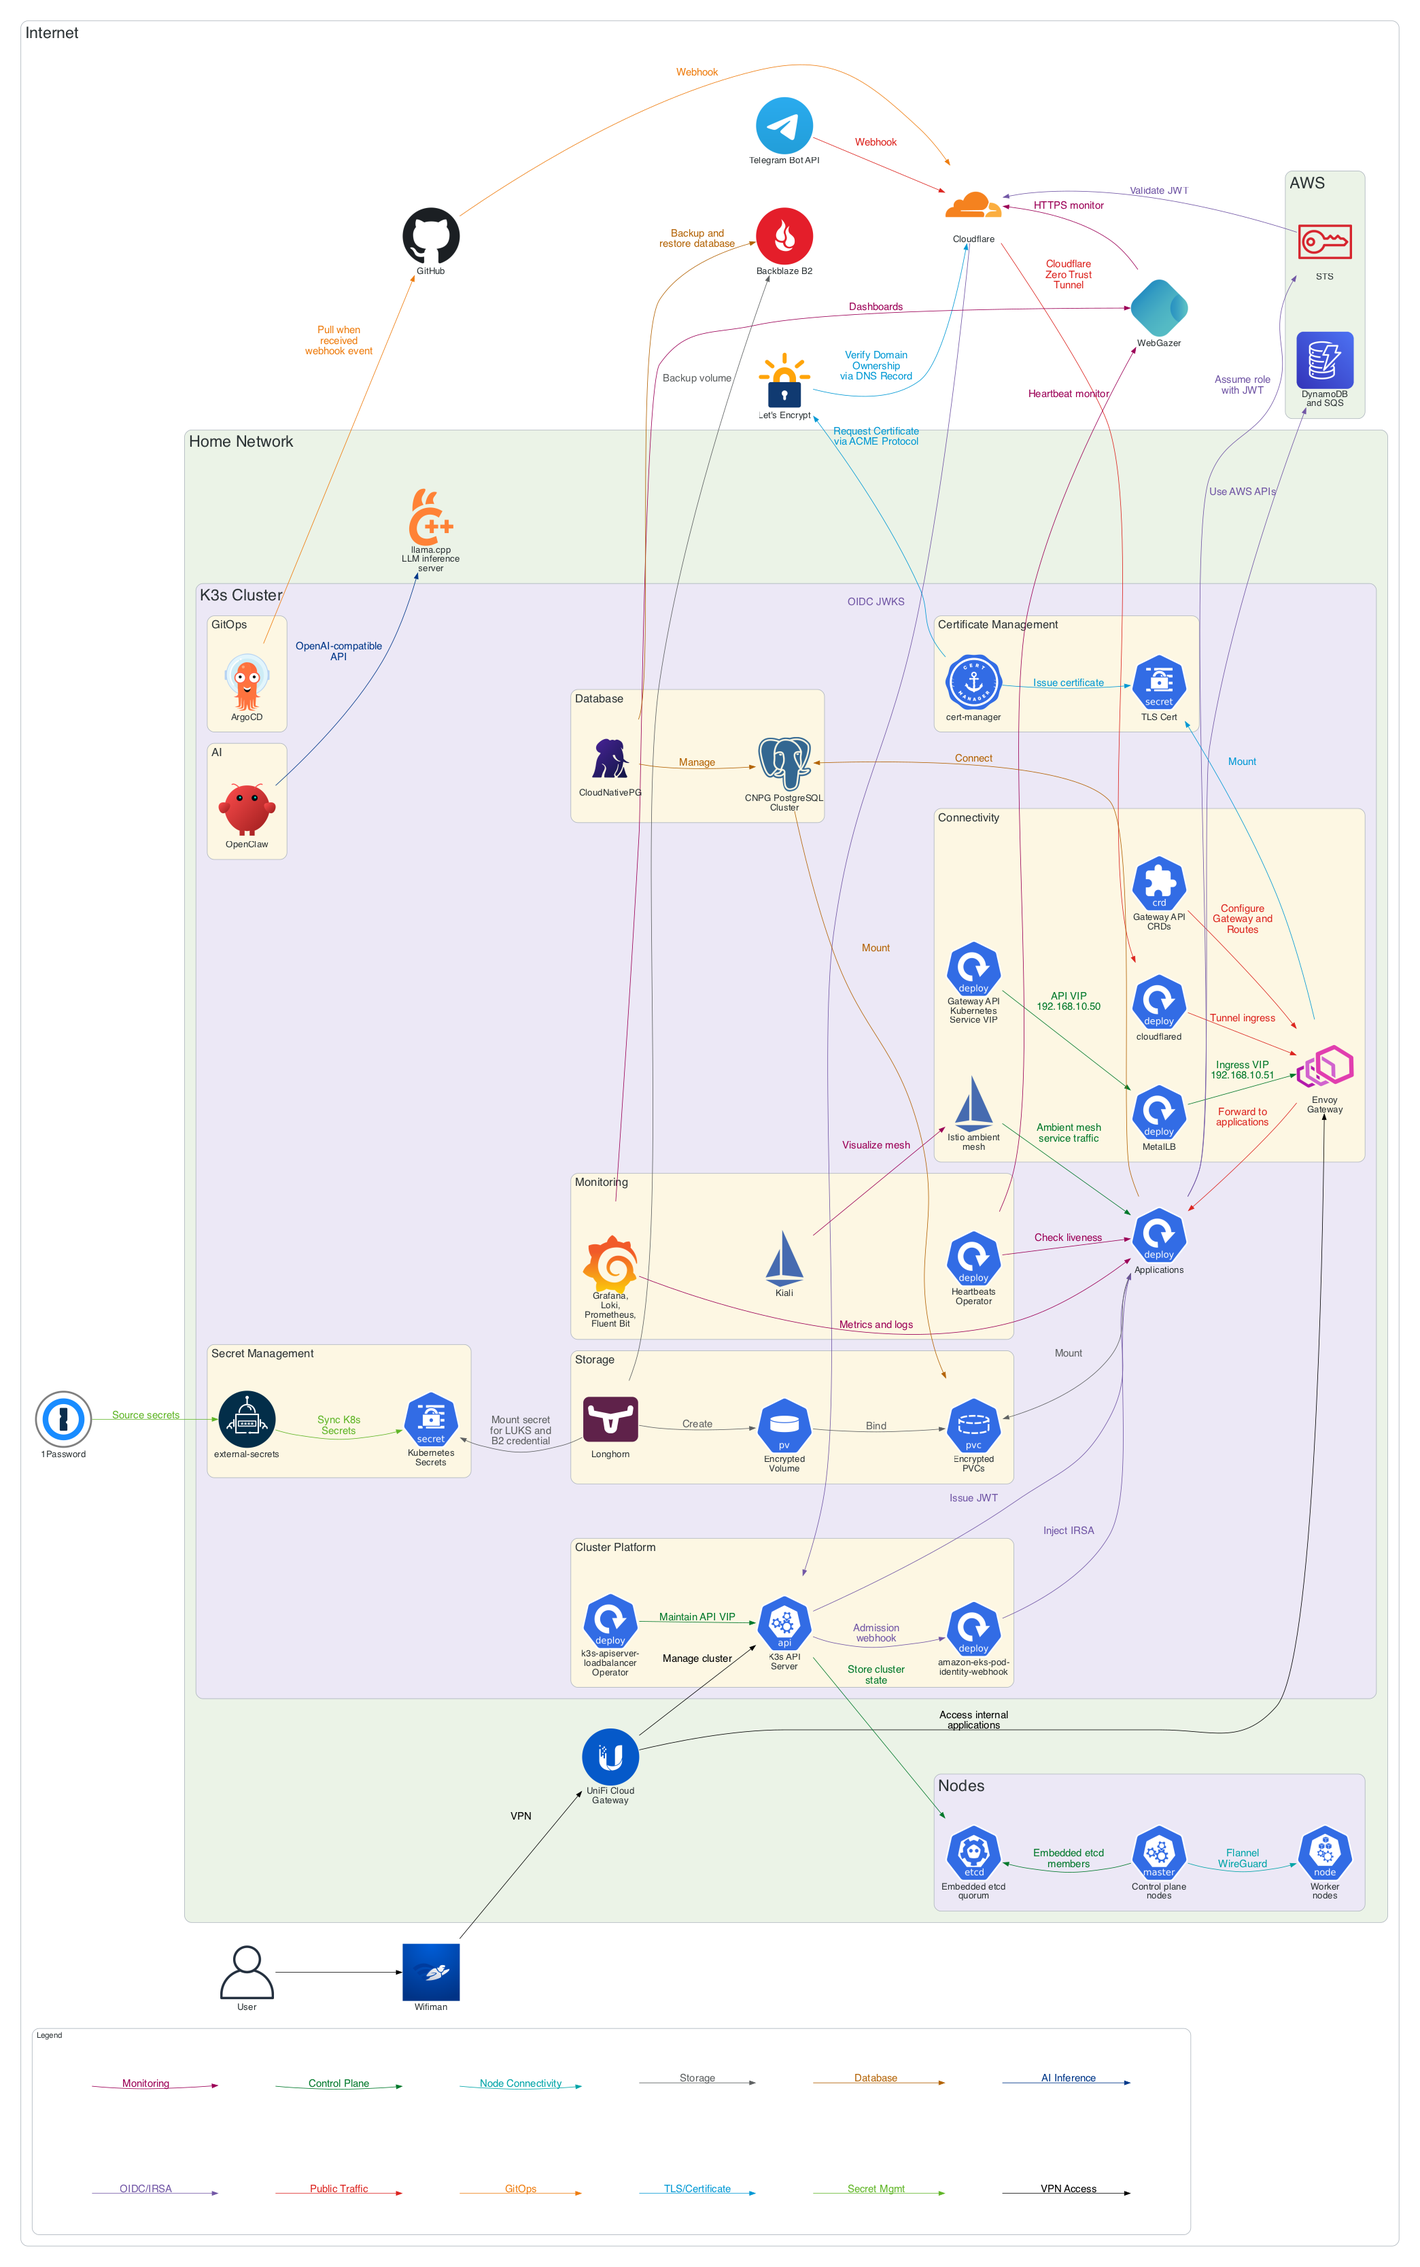
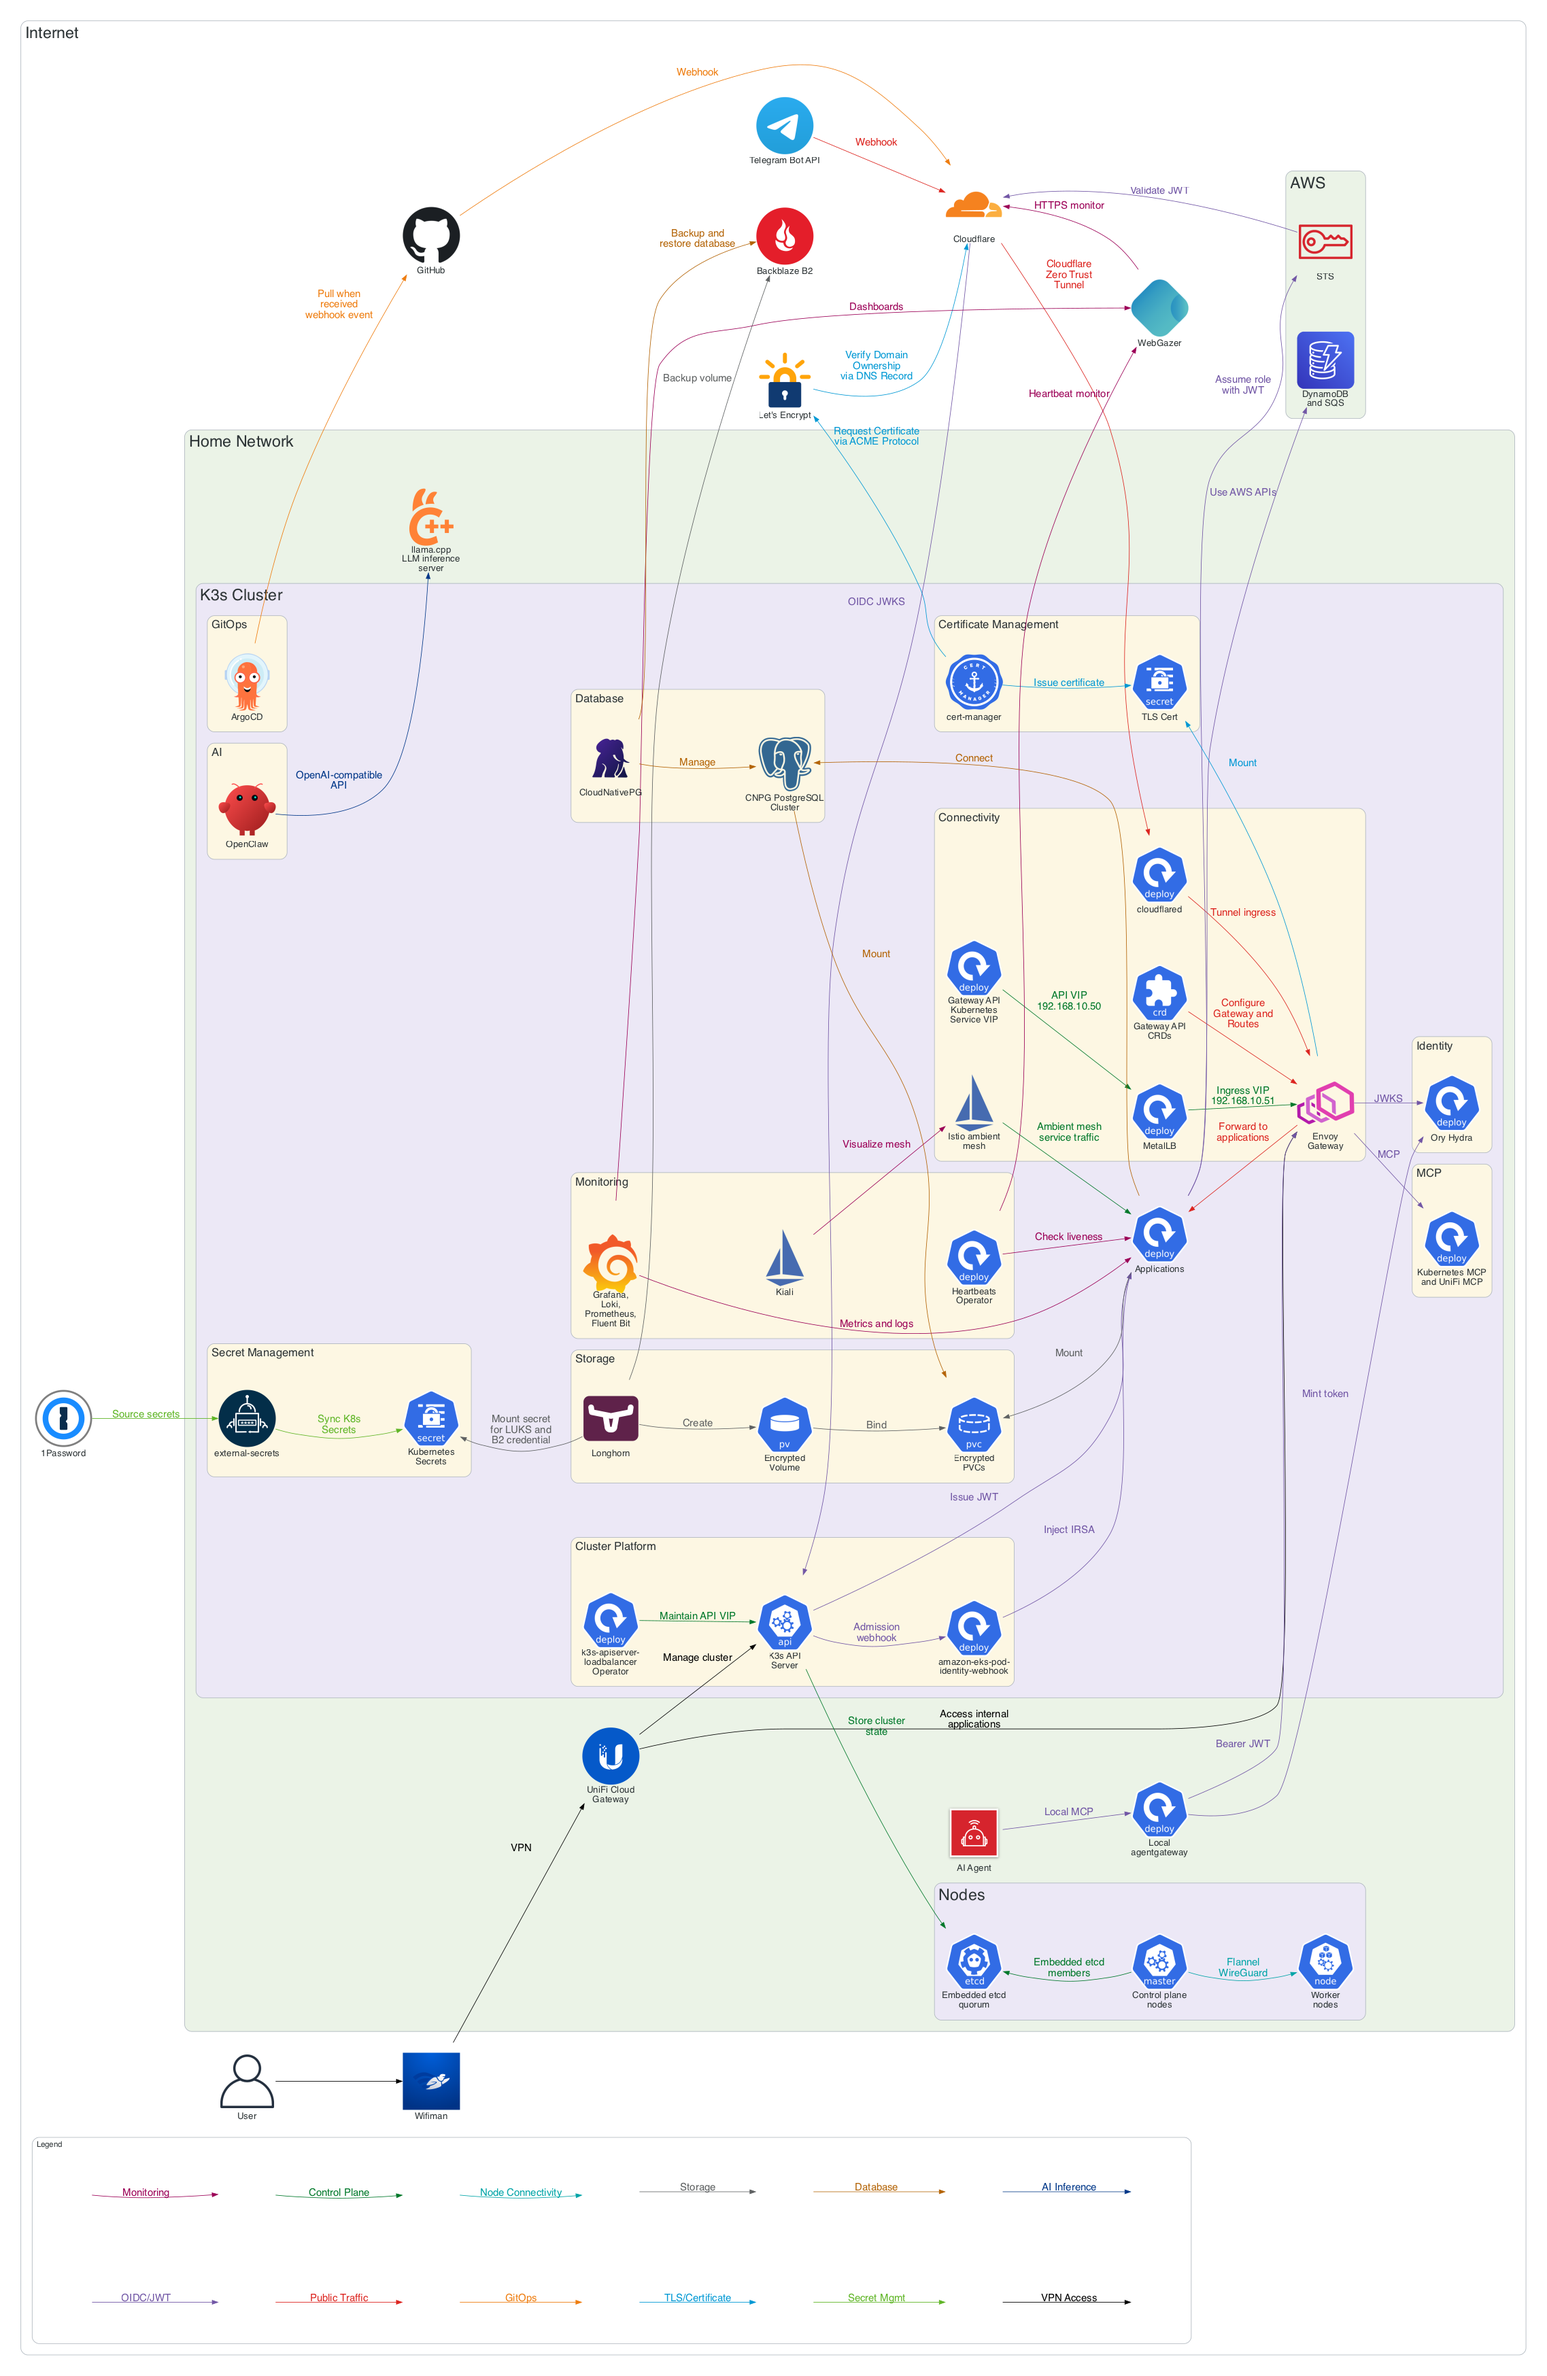
docs: add MCP JWT path to architecture diagram (#2976)
* docs: add MCP JWT path to architecture diagram

* docs: keep architecture diagram width compact with MCP

* docs: put Ory Hydra under Identity, not MCP

* docs: use robot icon for AI Agent in architecture diagram

diff --git a/diagrams/otaru-architecture.py b/diagrams/otaru-architecture.py
@@ -3,7 +3,7 @@ Otaru Architecture Diagram.
 
 This script generates a comprehensive architecture diagram for the Otaru project,
 covering public traffic flow, GitOps, TLS/Certificate management, secret management,
-monitoring, control plane, storage, database, and OIDC/IRSA authentication.
+monitoring, control plane, storage, database, OIDC/JWT, and MCP authentication.
 
 The diagram is generated using the 'diagrams' Python library and includes custom
 icons and color-coded edges for different logical flows.
@@ -13,6 +13,7 @@ import sys
 
 from diagrams import Cluster, Diagram, Edge
 from diagrams.aws.database import Dynamodb
+from diagrams.aws.robotics import Robotics
 from diagrams.aws.security import IAMAWSSts
 from diagrams.custom import Custom
 from diagrams.generic.blank import Blank
@@ -45,7 +46,7 @@ output_filename = sys.argv[1] if len(sys.argv) > 1 else "architecture"
 # GitOps                     London Overground
 # Monitoring                 Metropolitan
 # Node Connectivity          DLR
-# OIDC/IRSA Authentication   Elizabeth
+# OIDC/JWT Authentication    Elizabeth
 # Public Traffic             Central
 # Secret Management          London Trams
 # Storage                    Liberty
@@ -181,6 +182,8 @@ with Diagram(
         # Home Network
         with Cluster("Home Network", graph_attr=cluster_attr):
             unifi_gateway = icon_node("UniFi Cloud\nGateway", "unifi")
+            ai_agent = Robotics("AI Agent")
+            agentgateway = Deployment("Local\nagentgateway")
             with Cluster("K3s Cluster", graph_attr=cluster_attr):
                 with Cluster(
                     "Cluster Platform",
@@ -221,6 +224,18 @@ with Diagram(
                     graph_attr={**cluster_attr, "fontsize": "20"},
                 ):
                     openclaw = icon_node("OpenClaw", "openclaw")
+
+                with Cluster(
+                    "MCP",
+                    graph_attr={**cluster_attr, "fontsize": "20"},
+                ):
+                    mcp_servers = Deployment("Kubernetes MCP\nand UniFi MCP")
+
+                with Cluster(
+                    "Identity",
+                    graph_attr={**cluster_attr, "fontsize": "20"},
+                ):
+                    hydra = Deployment("Ory Hydra")
 
                 with Cluster(
                     "Certificate Management",
@@ -288,7 +303,7 @@ with Diagram(
             # Split legend into two rows for more compact layout
             legend_row(
                 [
-                    ("OIDC/IRSA", COLOUR_OIDC),
+                    ("OIDC/JWT", COLOUR_OIDC),
                     ("Public Traffic", COLOUR_PUBLIC),
                     ("GitOps", COLOUR_GITOPS),
                     ("TLS/Certificate", COLOUR_TLS),
@@ -459,3 +474,11 @@ with Diagram(
     (aws_sts >> edge("Validate JWT", colour=COLOUR_OIDC) >> cloudflare)
     (cloudflare >> edge("OIDC JWKS", colour=COLOUR_OIDC) >> api_server)
     applications >> edge("Use AWS APIs", colour=COLOUR_OIDC) >> aws_app_services
+
+    # MCP JWT: workstation -> Hydra (mint) + Envoy (edge JWT) -> MCP.
+    # Prefer short chain edges; avoid constraint=false (it draws long loops).
+    ai_agent >> edge("Local MCP", colour=COLOUR_OIDC) >> agentgateway
+    agentgateway >> edge("Mint token", colour=COLOUR_OIDC) >> hydra
+    agentgateway >> edge("Bearer JWT", colour=COLOUR_OIDC) >> envoy_gateway
+    envoy_gateway >> edge("JWKS", colour=COLOUR_OIDC) >> hydra
+    envoy_gateway >> edge("MCP", colour=COLOUR_OIDC) >> mcp_servers

diff --git a/documentation/mcp-auth.md b/documentation/mcp-auth.md
@@ -81,6 +81,7 @@ already fresh (stale in-process token).
 
 ## Related docs
 
+- [Architecture diagram](../assets/architecture.png) — cluster-wide layout including MCP
 - [Connectivity](connectivity.md) — north-south path through Envoy Gateway
 - [Secrets](secrets.md) — Hydra server secrets and client key handling
 - [Public JWKS](../jwks/README.md) — committed public keys only
